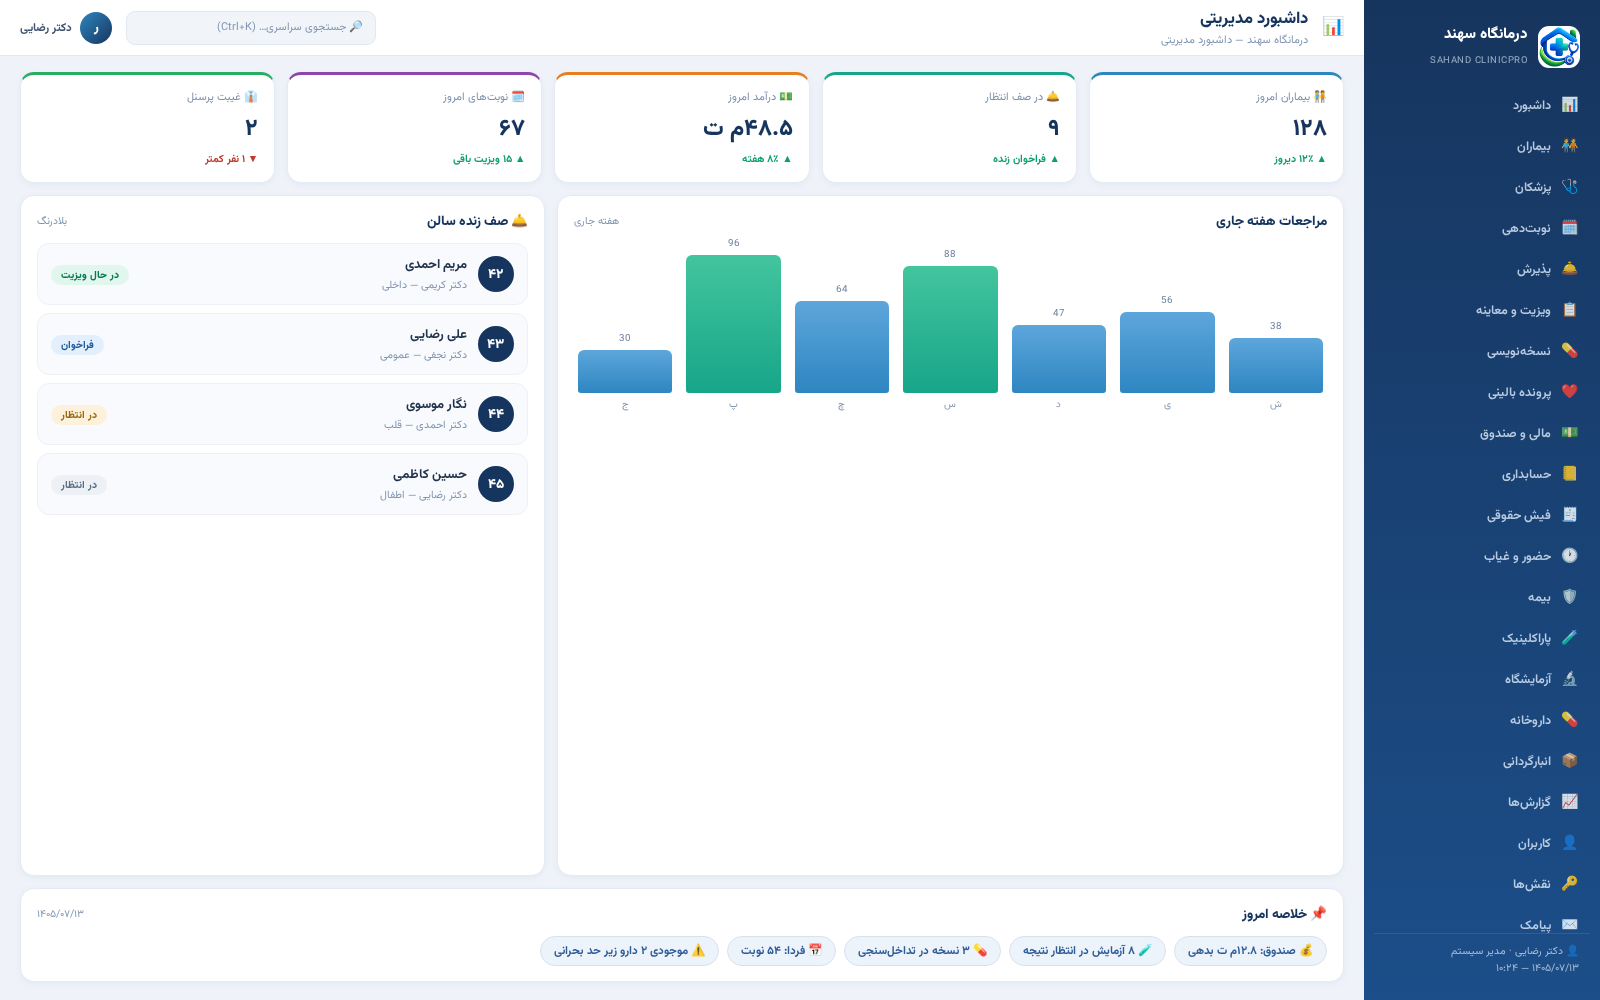
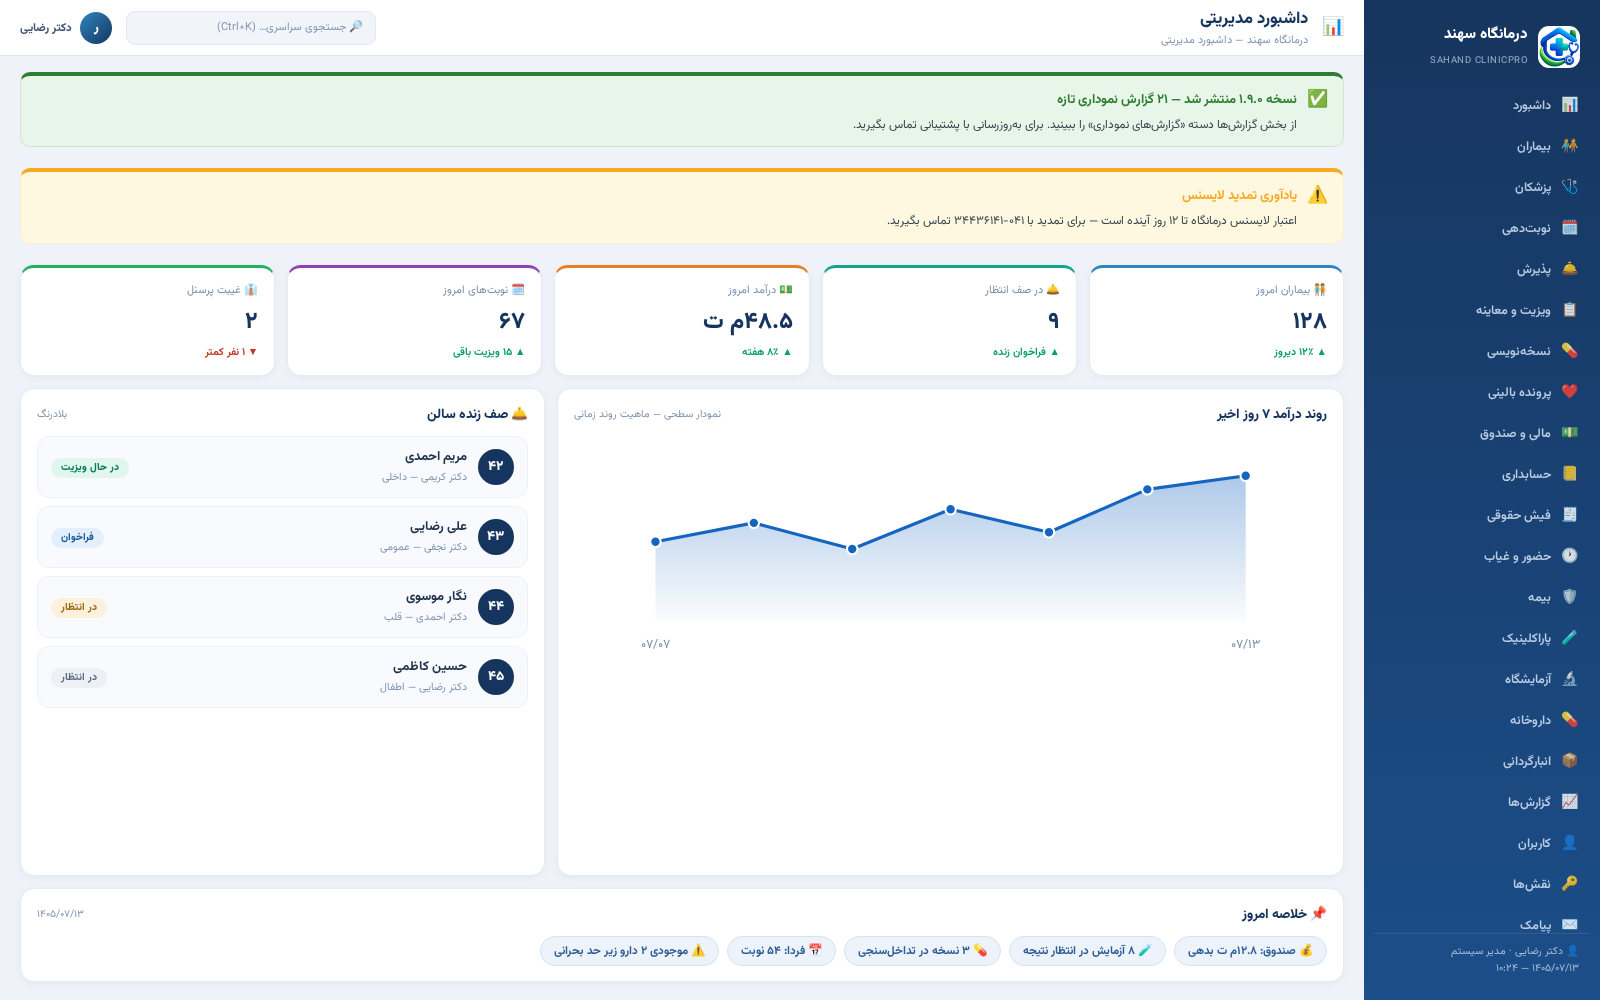
📸 [K1+K2]: بازتولید ۵۲ اسکرینشات با ظاهر ۱.۹ — کارت پیام پشتیبانی + نمودار سطحی داشبورد، دونات سهم پرسنل در حقوق، مرورگر گزارش با ۳ نوع نمودار + اسلاید جدید بروشور (۲۱ گزارش نموداری + پیام پشتیبانی) و جلد بهروزشده (۳۵+ ماژول، ۲۱ نموداری، ۱۶۴ تست)

diff --git a/docs/guides/brochure.html b/docs/guides/brochure.html
@@ -95,16 +95,16 @@ table.cmp td:first-child { text-align:right; font-weight:600; }
 <div class="slide cover">
   <div class="logo-wrap"><img src="../assets/ClinicPro.png" alt="لوگوی درمانگاه سهند"></div>
   <h1>سامانه جامع مدیریت درمانگاه سهند</h1>
-  <h2>Sahand ClinicPro — نسخه ۱.۷.۰</h2>
+  <h2>Sahand ClinicPro — نسخه ۱.۹.۰</h2>
   <div class="tagline">از پذیرش بیمار تا فیش حقوقی پرسنل — همهچیز در یک نرمافزار فارسی و جلالی</div>
   <div class="stats">
-    <div class="stat"><b>۳۰+</b><span>ماژول یکپارچه</span></div>
+    <div class="stat"><b>۳۵+</b><span>ماژول یکپارچه</span></div>
     <div class="stat"><b>۵۲</b><span>فرم آماده کار</span></div>
-    <div class="stat"><b>۹۴</b><span>جدول دیتابیس</span></div>
-    <div class="stat"><b>۱۴۳</b><span>تست خودکار سبز</span></div>
+    <div class="stat"><b>۲۱</b><span>گزارش نموداری</span></div>
+    <div class="stat"><b>۱۶۴</b><span>تست خودکار سبز</span></div>
     <div class="stat"><b>۱۰۰٪</b><span>فارسی و جلالی</span></div>
   </div>
-  <div class="footer-line">کاتالوگ معرفی و بازاریابی — پاییز ۱۴۰۵ | ⭐ تور تصویری کامل هر ۵۲ فرم + حقوق درصدی پرسنل از سود خدمات + آیکون رسمی روی همه پنجرهها + پشتیبانی یکپارچه سهند سرویس</div>
+  <div class="footer-line">کاتالوگ معرفی و بازاریابی — پاییز ۱۴۰۵ | ⭐ ۲۱ گزارش نموداری با نوع درست هر شاخص + پیام مستقیم پشتیبانی روی داشبورد + سامانه لایسنس ابری با نمودار و گزارش + حقوق درصدی پرسنل از سود خدمات</div>
 </div>
 <!-- ═══ اسلاید 2: چرا سهند ═══ -->
 <div class="slide">
@@ -260,6 +260,12 @@ table.cmp td:first-child { text-align:right; font-weight:600; }
 <div class="slide">
   <div class="hdr"><div class="ic">📈</div><div><h1>📈 حوزه 8: گزارشها</h1><p>تور تصویری کامل — تصویر واقعی رابط کاربری + کاربرد</p></div><div class="page-no">30</div></div>
   <div class="tour"><div class="form-card"><div class="shot-frame"><img src="../screenshots/forms/18-reports.png" alt="گزارشساز پیشرفته"></div><div class="cap"><b><span class="em">📈</span>51. گزارشساز پیشرفته</b><span>۳۱+ گزارش آماده در ۵ حوزه با خروجی اکسل فارسی و زمانبندی ارسال</span></div></div><div class="form-card"><div class="shot-frame"><img src="../screenshots/forms/33-report-browser.png" alt="مرورگر گزارش"></div><div class="cap"><b><span class="em">📑</span>52. مرورگر گزارش</b><span>مرور دستهای گزارشها با پیشنمایش نموداری قبل از اجرا</span></div></div></div>
+</div>
+<!-- ═══ اسلاید جدید چرخه دوازدهم: گزارشهای نموداری و پیام پشتیبانی ═══ -->
+<div class="slide">
+  <div class="hdr"><div class="ic">📈</div><div><h1>۲۱ گزارش نموداری + پیام مستقیم پشتیبانی</h1><p>نسخه ۱.۹ — هر شاخص با نوعِ درستِ نمودار خودش روایت میشود؛ پشتیبانی هم مستقیم روی داشبورد شما پیام میگذارد</p></div><div class="page-no">31</div></div>
+  <div class="tour"><div class="form-card"><div class="shot-frame"><img src="../screenshots/forms/33-report-browser.png" alt="گزارشهای نموداری"></div><div class="cap"><b><span class="em">📈</span>دسته «گزارشهای نموداری» — ۲۱ گزارش</b><span>روند درآمد (سطحی)، مقایسه ماهانه و شعبهای (ستونی)، سهم پزشکان/بیمهها/روش پرداخت (دونات)، رتبهبندی خدمات و بدهکاران (میلهای افقی) — نوع نمودار خودکار</span></div></div><div class="form-card"><div class="shot-frame"><img src="../screenshots/forms/01-dashboard.png" alt="پیام پشتیبانی روی داشبورد"></div><div class="cap"><b><span class="em">📨</span>پیام مستقیم پشتیبانی روی داشبورد</b><span>اعلان نسخه جدید، یادآوری تمدید و اخبار — با تپقلب لایسنس مستقیم از پنل سهند سرویس روی داشبورد درمانگاه شما ظاهر میشود</span></div></div></div>
+  <div class="tour" style="margin-top:4mm"><div class="form-card"><div class="shot-frame"><img src="../screenshots/forms/11-payroll.png" alt="سهم پرسنل از حقوق درصدی"></div><div class="cap"><b><span class="em">🍩</span>سهم پرسنل از حقوق درصدی</b><span>کنار فیش حقوقی، دونات سهم هر پرسنل از سود خدماتِ خودش — شفافیت کامل حقوق درصدی</span></div></div><div class="form-card"><div class="shot-frame"><img src="../screenshots/forms/18-reports.png" alt="گزارشساز پیشرفته"></div><div class="cap"><b><span class="em">📑</span>گزارشساز پیشرفته</b><span>۴۵+ گزارش کاتالوگی با پارامترهای داینامیک و خروجی CSV/اکسل فارسی</span></div></div></div>
 </div>
 <!-- ═══ اسلاید 31: ماژولهای لایسنس ═══ -->
 <div class="slide">

diff --git a/scripts/generate_form_screenshots.py b/scripts/generate_form_screenshots.py
@@ -242,6 +242,78 @@ def chart_panel(title, data, labels, hi_index=None):
             f'<div class="bars" style="margin-bottom:22px">{bars}</div></div>')
 
 
+
+
+def area_panel(title, data, labels, unit="ریال", sub="۷ روز اخیر — نمودار سطحی روند"):
+    """نمودار سطحی SVG — ماهیت روند زمانی (چرخه ۱۱: نوع درست برای روند)"""
+    import math
+    w, h, pad = 640, 215, 38
+    n = len(data)
+    mx = max(max(data), 1)
+    step = (w - 2 * pad) / max(n - 1, 1)
+    pts = []
+    for i, v in enumerate(data):
+        x = pad + i * step
+        y = h - pad - ((h - 2 * pad) * v / mx)
+        pts.append((x, y))
+    d = " ".join(("M" if i == 0 else "L") + f"{x:.0f},{y:.0f}" for i, (x, y) in enumerate(pts))
+    area = d + f" L{pts[-1][0]:.0f},{h - pad} L{pad},{h - pad} Z"
+    gid = "ag" + str(abs(hash(title)) % 9999)
+    dots = "".join(
+        f'<circle cx="{x:.0f}" cy="{y:.0f}" r="5" fill="#1565C0" stroke="#fff" stroke-width="2"><title>{lb}: {v}</title></circle>'
+        for (x, y), lb, v in zip(pts, labels, data))
+    lbls = (f'<text x="{pts[0][0]:.0f}" y="{h - 12}" font-size="12" fill="#78909C" text-anchor="middle">{labels[0]}</text>'
+            f'<text x="{pts[-1][0]:.0f}" y="{h - 12}" font-size="12" fill="#78909C" text-anchor="middle">{labels[-1]}</text>')
+    return (f'<div class="panel"><div class="ph"><b>{title}</b><small>{sub}</small></div>'
+            f'<svg viewBox="0 0 {w} {h}" style="width:100%;height:225px" direction="ltr">'
+            f'<defs><linearGradient id="{gid}" x1="0" y1="0" x2="0" y2="1">'
+            f'<stop offset="0%" stop-color="#1565C0" stop-opacity=".35"/><stop offset="100%" stop-color="#1565C0" stop-opacity=".02"/></linearGradient></defs>'
+            f'<path d="{area}" fill="url(#{gid})"/>'
+            f'<path d="{d}" fill="none" stroke="#1565C0" stroke-width="3" stroke-linejoin="round" stroke-linecap="round"/>'
+            f'{dots}{lbls}</svg></div>')
+
+
+def donut_panel(title, segments, unit, center="", sub="سهم از کل — نمودار دونات"):
+    """نمودار دونات SVG — ماهیت سهم از کل (چرخه ۱۱/۱۲)"""
+    import math
+    palette = ["#1565c0", "#00897b", "#f9a825", "#e53935", "#6a1b9a", "#00acc1", "#43a047", "#fb8c00", "#5e35b1", "#d81b60"]
+    total = sum(v for _, v, _ in segments) or 1
+    cx = cy = 110
+    r = 76
+    sw = 32
+    ang = -90.0
+    paths = ""
+    legend = ""
+    for i, (lb, v, _) in enumerate(segments):
+        frac = v / total
+        a2 = ang + frac * 360 - 1.6
+        x1 = cx + r * math.cos(math.radians(ang)); y1 = cy + r * math.sin(math.radians(ang))
+        x2 = cx + r * math.cos(math.radians(a2)); y2 = cy + r * math.sin(math.radians(a2))
+        large = 1 if frac > 0.5 else 0
+        c = palette[i % len(palette)]
+        paths += (f'<path d="M{x1:.1f},{y1:.1f} A{r},{r} 0 {large} 1 {x2:.1f},{y2:.1f}" fill="none" '
+                  f'stroke="{c}" stroke-width="{sw}" stroke-linecap="butt"><title>{lb}: {v:,} ({frac * 100:.1f}%)</title></path>')
+        legend += f'<span class="chip" style="border-right:14px solid {c};padding:3px 10px">{lb} {frac * 100:.0f}%</span>'
+        ang += frac * 360
+    center_html = (f'<text x="{cx}" y="{cy - 4}" text-anchor="middle" font-size="23" font-weight="800" fill="#24313F">{center or f"{total:,}"}</text>'
+                   f'<text x="{cx}" y="{cy + 18}" text-anchor="middle" font-size="11" fill="#78909C">{unit}</text>')
+    return (f'<div class="panel"><div class="ph"><b>{title}</b><small>{sub}</small></div>'
+            f'<div style="display:flex;align-items:center;gap:18px;padding:6px 10px 10px">'
+            f'<svg viewBox="0 0 220 220" style="width:205px;height:205px;flex:none">{paths}{center_html}</svg>'
+            f'<div class="chips" style="flex-direction:column;align-items:flex-start;gap:7px">{legend}</div></div></div>')
+
+
+def msg_card(title, body, level="info"):
+    """کارت پیامهای پشتیبانی — چرخه دوازدهم: پیام مستقیم از پنل لایسنس روی داشبورد"""
+    colors = {"info": ("#E3F2FD", "#1565C0", "\U0001F4E2"), "success": ("#E8F5E9", "#2E7D32", "\u2705"),
+              "warning": ("#FFF8E1", "#F9A825", "\u26A0\uFE0F"), "danger": ("#FFEBEE", "#C62828", "\U0001F6A8")}
+    bg, bd, ic = colors.get(level, colors["info"])
+    return (f'<div style="background:{bg};border:1.5px solid {bd}22;border-top:4px solid {bd};border-radius:10px;'
+            f'padding:11px 15px;margin-bottom:9px;display:flex;gap:10px;align-items:flex-start">'
+            f'<span style="font-size:17px">{ic}</span><div><b style="font-size:13px;color:{bd}">{title}</b>'
+            f'<div style="font-size:12px;color:#37474F;margin-top:3px;line-height:1.7">{body}</div></div></div>')
+
+
 def form_fields(fields):
     """fields: [(label, value, icon?, hint?)]"""
     out = []
@@ -292,13 +364,19 @@ def win(num, key, title, icon, sub, body):
 
 # ─── ۰۱ داشبورد ───
 view(1, "dashboard", "داشبورد مدیریتی", "📊", "داشبورد",
-     stat_row([("بیماران امروز", "۱۲۸", "▲ ۱۲٪ دیروز", "c1", "🧑🤝🧑"),
+     msg_card("نسخه ۱.۹.۰ منتشر شد — ۲۱ گزارش نموداری تازه",
+              "از بخش گزارشها دسته «گزارشهای نموداری» را ببینید. برای بهروزرسانی با پشتیبانی تماس بگیرید.", "success")
+     + msg_card("یادآوری تمدید لایسنس",
+                "اعتبار لایسنس درمانگاه تا ۱۲ روز آینده است — برای تمدید با ۰۴۱-۳۴۴۳۶۱۴۱ تماس بگیرید.", "warning")
+     + stat_row([("بیماران امروز", "۱۲۸", "▲ ۱۲٪ دیروز", "c1", "🧑🤝🧑"),
                ("در صف انتظار", "۹", "▲ فراخوان زنده", "c2", "🛎"),
                ("درآمد امروز", "۴۸.۵م ت", "▲ ۸٪ هفته", "c3", "💵"),
                ("نوبتهای امروز", "۶۷", "▲ ۱۵ ویزیت باقی", "c4", "🗓"),
                ("غیبت پرسنل", "۲", "▼ ۱ نفر کمتر", "c6", "👔")])
      + '<div class="grid2 grow" style="grid-template-columns:1.5fr 1fr">'
-     + chart_panel("مراجعات هفته جاری", [38, 56, 47, 88, 64, 96, 30], ["ش", "ی", "د", "س", "چ", "پ", "ج"], hi_index=[3, 5])
+     + area_panel("روند درآمد ۷ روز اخیر", [52, 64, 47, 73, 58, 86, 95],
+                  ["۰۷/۰۷", "۰۷/۰۸", "۰۷/۰۹", "۰۷/۱۰", "۰۷/۱۱", "۰۷/۱۲", "۰۷/۱۳"],
+                  unit="ریال", sub="نمودار سطحی — ماهیت روند زمانی")
      + '<div class="panel"><div class="ph"><b>🛎 صف زنده سالن</b><small>بلادرنگ</small></div>'
      + queue_rows([("۴۲", "مریم احمدی", "دکتر کریمی — داخلی", B.format("green", "در حال ویزیت")),
                    ("۴۳", "علی رضایی", "دکتر نجفی — عمومی", B.format("blue", "فراخوان")),
@@ -442,11 +520,16 @@ view(11, "payroll", "فیش حقوقی پرسنل", "🧾", "فیش حقوقی",
      toolbar([("صدور فیش ماه", "➕", "pri"), ("پیشنمایش چاپ", "🖨", "sec"), ("قواعد ۱۴۰۴", "📜", "sec")])
      + stat_row([("پرسنل حقوقبگیر", "۳۸", "▲ ۲ استخدام", "c1", "👔"), ("جمع حقوق مهر", "۸۹۲م ت", "▲ ۴.۲٪", "c2", "💰"),
                  ("حقوق درصدی از سود", "۶۱.۳م ت", "▲ از سود خدمات خود پرسنل", "c3", "📈"), ("کسورات بیمه/مالیات", "۱۰۴م ت", "▲ محاسبه خودکار", "c4", "📉")])
+     + '<div class="grid2" style="grid-template-columns:1.35fr 1fr">'
      + table_panel("فیشهای حقوقی مهر ۱۴۰۵", ["پرسنل", "سمت", "حقوق پایه", "٪ از سود", "سود خدمات", "حقوق درصدی", "اضافهکاری", "بیمه ۷٪", "خالص پرداختی", "وضعیت"],
         [("رضا محمدنژاد", "پرستار", "۲۲م", "۳۰٪", "۴۸.۲م", "۱۴.۵م", "۲.۴م", "۲.۷م", "۳۵.۱م", B.format("green", "صادر شد")),
          ("فاطمه اکبری", "منشی پذیرش", "۱۲م", "—", "—", "—", "۰.۸م", "۰.۹م", "۱۱.۳م", B.format("green", "صادر شد")),
          ("مهدی قلیزاده", "آزمایشگاه", "۱۵م", "۲۵٪", "۶۲.۹م", "۱۵.۷م", "۳.۱م", "۲.۴م", "۲۵.۸م", B.format("blue", "در بررسی")),
-         ("زهرا رحیمی", "کارمند مالی", "۱۲م", "۱۰٪", "۱۹.۴م", "۱.۹م", "—", "۱م", "۱۲.۲م", B.format("green", "صادر شد"))]))
+         ("زهرا رحیمی", "کارمند مالی", "۱۲م", "۱۰٪", "۱۹.۴م", "۱.۹م", "—", "۱م", "۱۲.۲م", B.format("green", "صادر شد"))])
+     + donut_panel("سهم پرسنل از حقوق درصدی — مهر ۱۴۰۵",
+        [("محمدنژاد", 14_500_000, ""), ("قلیزاده", 15_700_000, ""), ("رحیمی", 1_900_000, ""),
+         ("نوروزی", 9_800_000, ""), ("اکبری تنی", 6_200_000, ""), ("سایر پرسنل", 13_200_000, "")],
+        unit="ریال حقوق درصدی", center="۶۱.۳م", sub="از سود خدماتِ خودِ هر پرسنل"))
 
 # ─── ۱۲ حضور و غیاب ───
 view(12, "attendance", "حضور و غیاب", "🕐", "حضور و غیاب",
@@ -756,20 +839,27 @@ view(32, "notifications", "اعلانها و یادآورها", "🔔", "دا
 
 # ─── ۳۳ مرورگر گزارش ───
 view(33, "report-browser", "مرورگر گزارش", "📑", "گزارشها",
-     '<div class="grid2 grow" style="grid-template-columns:240px 1fr">'
+     '<div class="grid2 grow" style="grid-template-columns:240px 1.9fr">'
      + '<div class="panel"><div class="ph"><b>📂 دستهها</b></div>'
      + queue_rows([("💰", "مالی", "۹ گزارش", B.format("gray", "")),
                    ("🏥", "بالینی", "۷ گزارش", B.format("gray", "")),
                    ("👔", "منابع انسانی", "۶ گزارش", B.format("gray", "")),
-                   ("📈", "مدیریتی", "۵ گزارش", B.format("blue", "باز")),
+                   ("📈", "گزارشهای نموداری", "۲۱ گزارش", B.format("blue", "باز")),
+                   ("📊", "مدیریتی", "۵ گزارش", B.format("gray", "")),
                    ("🧪", "پاراکلینیک", "۴ گزارش", B.format("gray", ""))])
      + '</div>'
-     + '<div class="panel"><div class="ph"><b>📈 آمار مراجعات ماهانه</b><small>مهر ۱۴۰۵ — پیشنمایش</small></div>'
-     + '<div class="bars" style="height:230px;margin-bottom:22px">'
+     + '<div>'
+     + '<div class="panel" style="margin-bottom:12px"><div class="ph"><b>🧾 درآمد ۱۲ ماه اخیر (شمسی)</b><small>نوع: ستونی — مقایسه ماهبهماه</small></div>'
+     + '<div class="bars" style="height:150px;margin-bottom:14px">'
      + "".join(f'<div class="bar{" hi" if i in (2, 5) else ""}" style="height:{v}%"><span>{n}</span><i>{d}</i></div>'
                for i, (v, n, d) in enumerate(zip([62, 74, 88, 71, 80, 96, 58, 84], ["۱٬۲۴۰", "۱٬۴۸۰", "۱٬۷۶۰", "۱٬۴۲۰", "۱٬۶۰۰", "۱٬۹۲۰", "۱٬۱۶۰", "۱٬۶۸۰"], ["فرو", "ورد", "خرد", "تیر", "مرد", "شهر", "مهر", "آبا"])))
-     + '</div><div class="chips"><span class="chip">بازه: ۶ ماه اخیر</span><span class="chip">تفکیک: شعبه</span>'
-       '<span class="chip">خروجی: اکسل فارسی</span><span class="chip">طرح: ستونی گروهی</span></div></div></div>')
+     + '</div>'
+     + '<div class="chips"><span class="chip">🪙 جمع دوره: ۱۴۸.۶م</span><span class="chip">📅 بازه: ۱۲ ماه شمسی</span>'
+       '<span class="chip">🧩 نوع خودکار: ستونی</span><span class="chip">📗 خروجی CSV/اکسل</span></div></div>'
+     + '<div style="display:grid;grid-template-columns:1fr 1fr;gap:12px">'
+     + donut_panel("سهم پزشکان از ویزیت", [("کریمی", 96, ""), ("نجفی", 128, ""), ("احمدی", 64, ""), ("رضایی", 88, ""), ("سایر", 57, "")], "ویزیت", sub="دسته نموداری — نوع: دونات")
+     + area_panel("روند درآمد روزانه", [42, 58, 47, 72, 55, 84, 92], ["۰۷/۰۷", "۰۷/۰۸", "۰۷/۰۹", "۰۷/۱۰", "۰۷/۱۱", "۰۷/۱۲", "۰۷/۱۳"], sub="دسته نموداری — نوع: سطحی")
+     + '</div></div></div>')
 
 # ═══════════════════  ۱۹ پنجره فرم (مودال)  ═══════════════════
 
